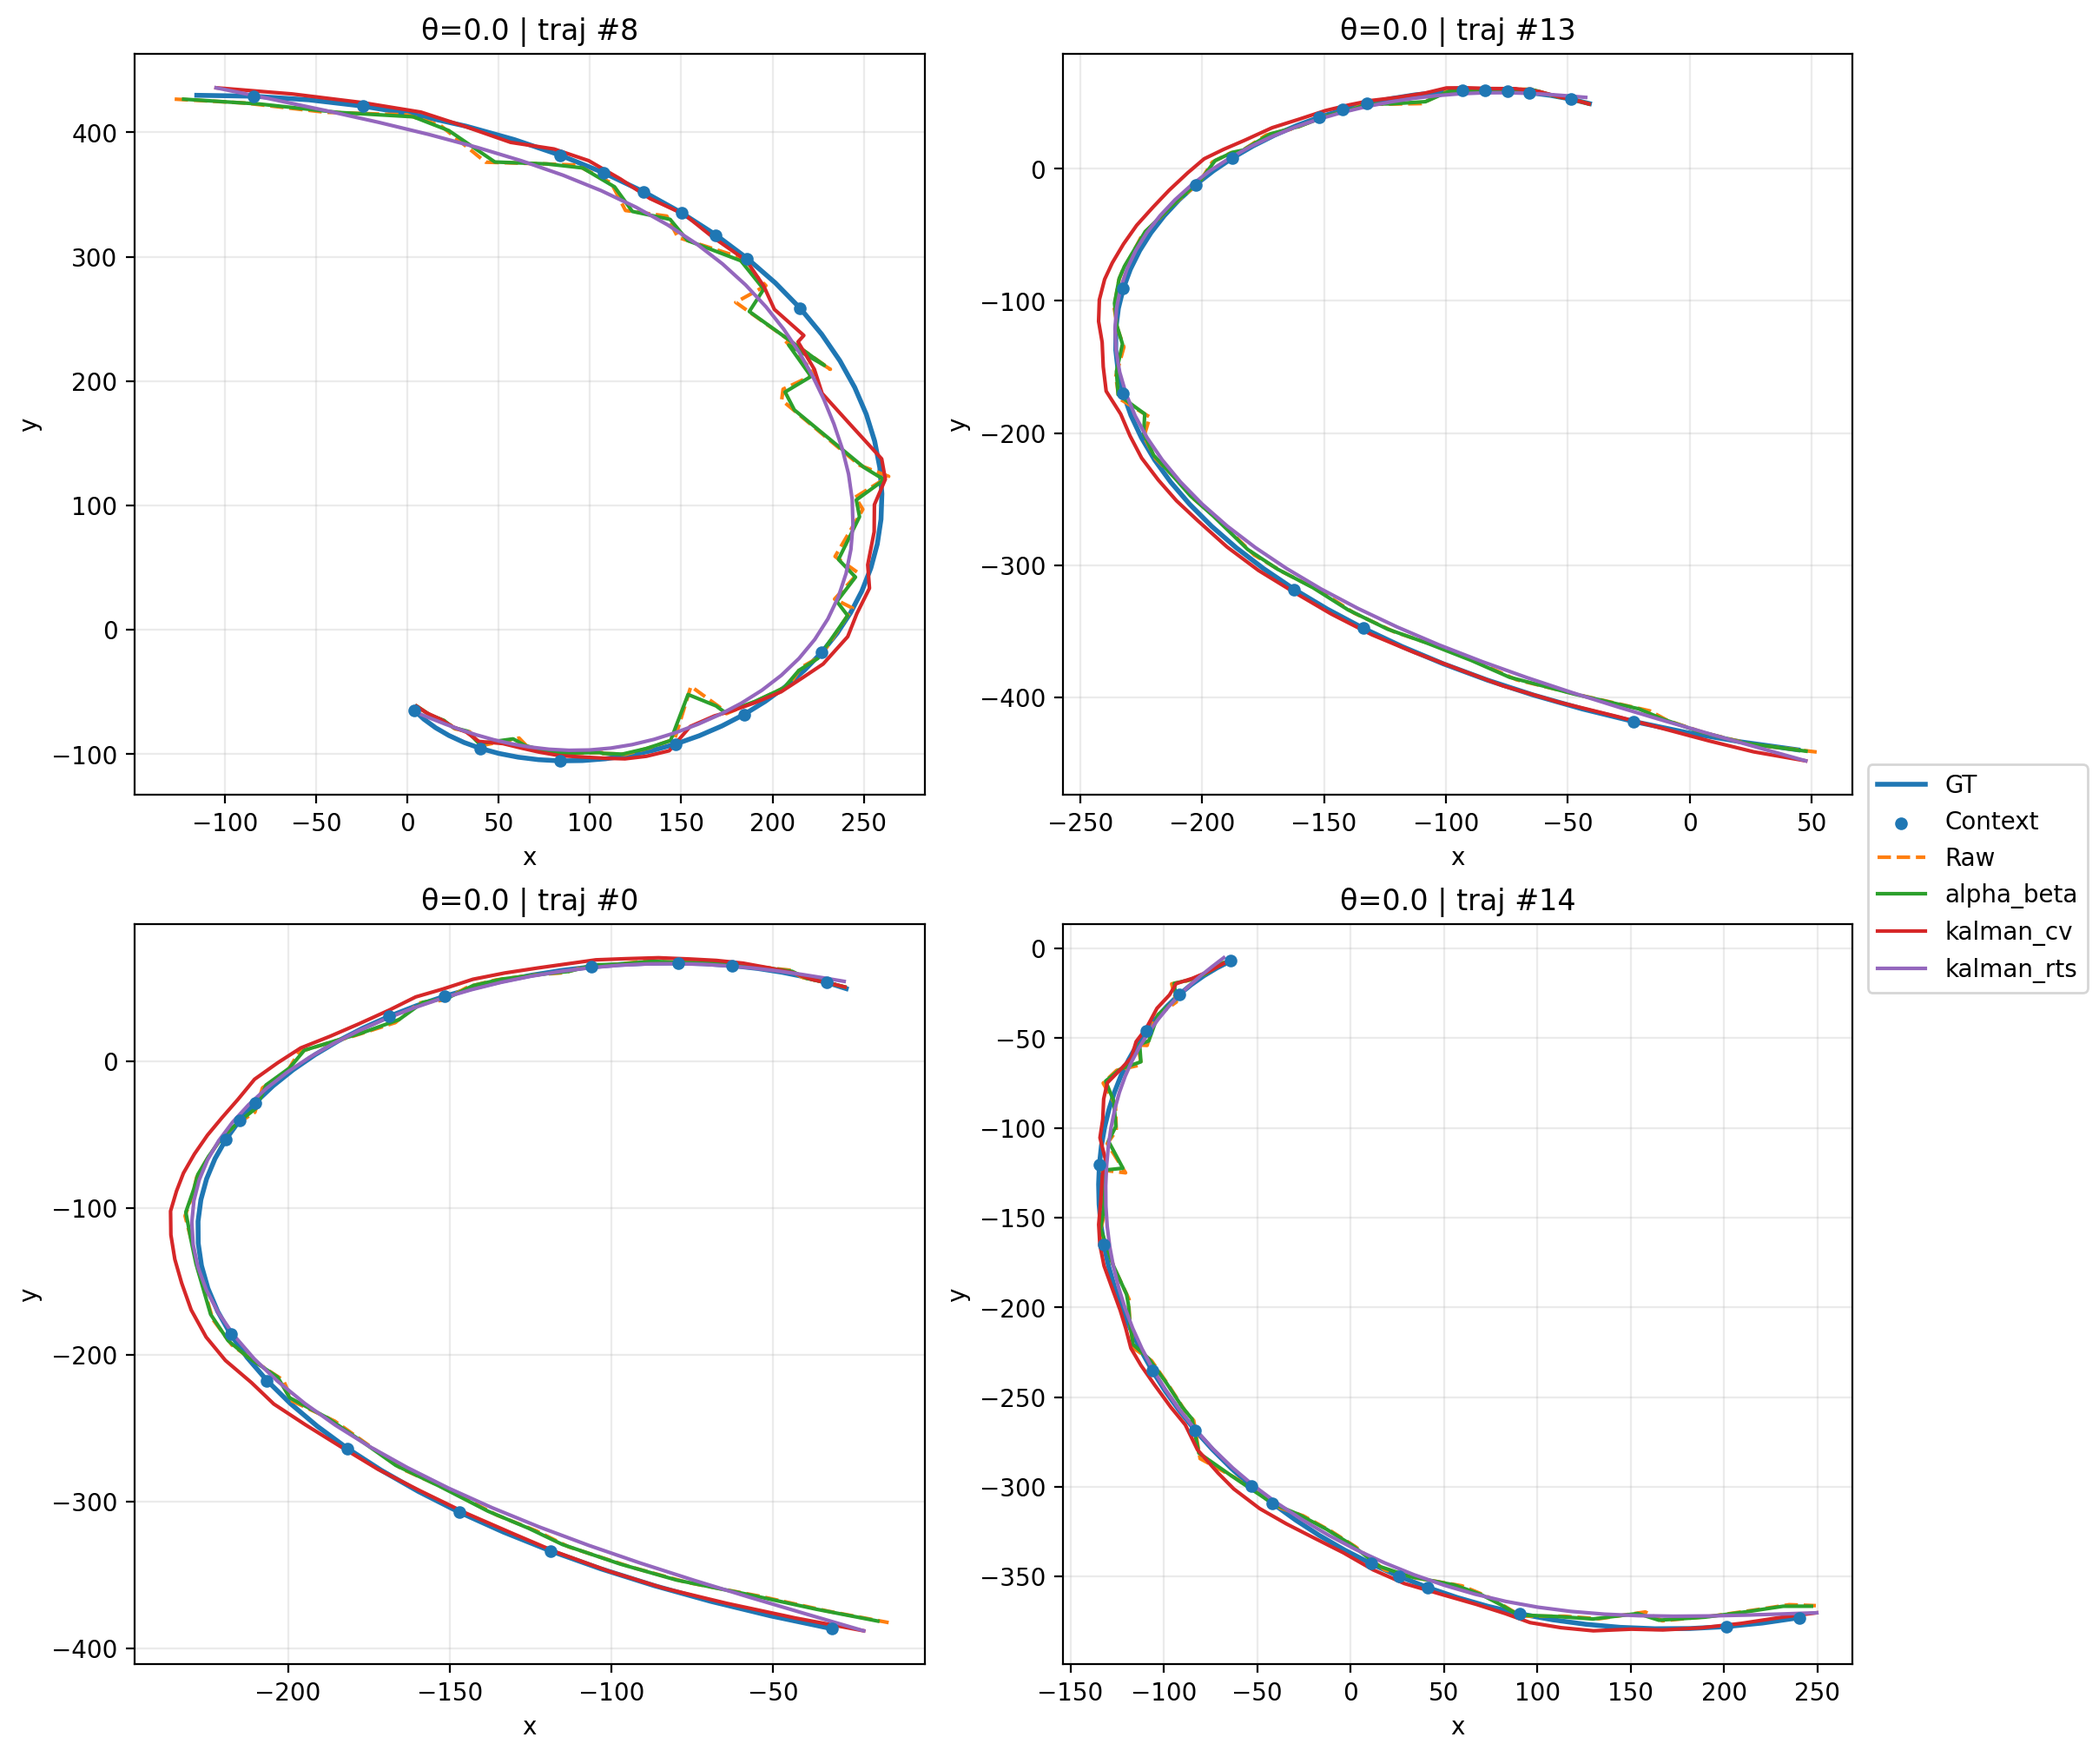
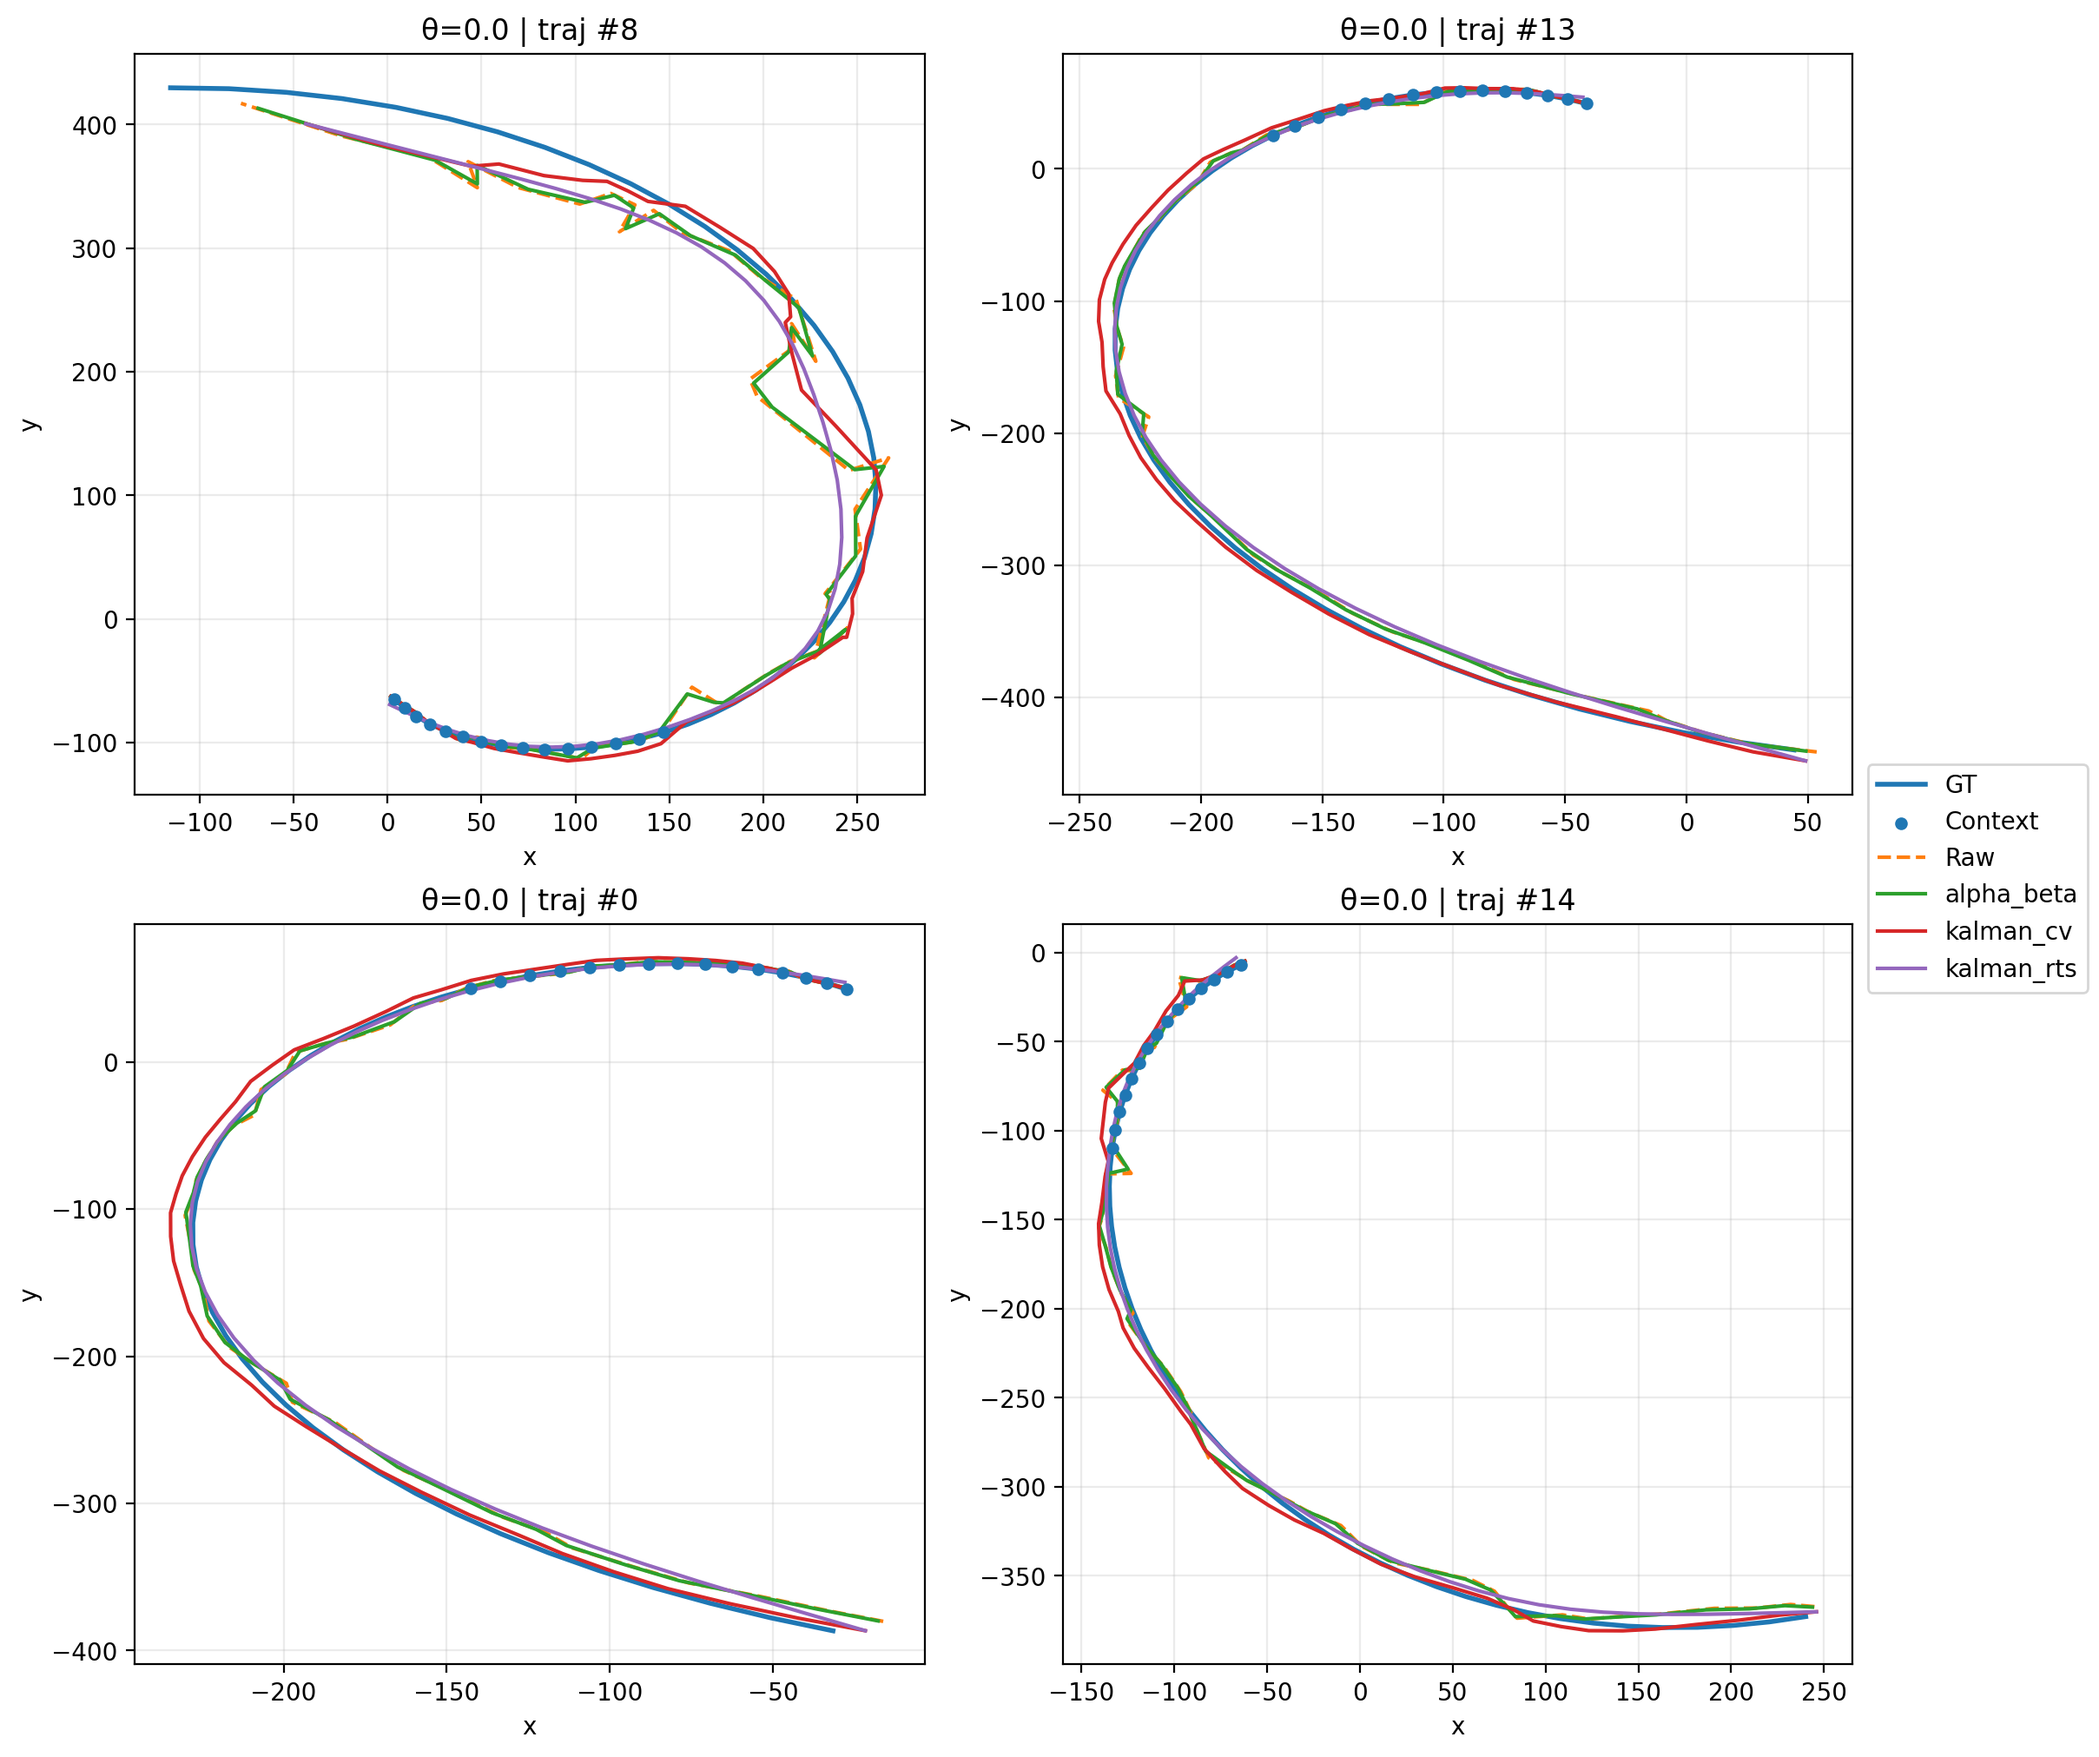
Update evaluation scripts and postprocess comparison report; modify context sampling method and improve performance metrics

diff --git a/underwater-localization-topologies/src/evaluation/eval_anp_postprocess_filters_ar.py b/underwater-localization-topologies/src/evaluation/eval_anp_postprocess_filters_ar.py
@@ -122,9 +122,9 @@ def denormalize_y(y_norm: torch.Tensor, y_mean: torch.Tensor, y_std: torch.Tenso
 
 
 def sample_context_indices(total_points: int, n_context: int, g: torch.Generator, device: torch.device) -> torch.Tensor:
-    """Subconjunto aleatorio determinista y ordenado."""
-    perm = torch.randperm(total_points, generator=g, device=device)
-    return perm[:n_context].sort().values
+    """Primeros n_context puntos (ordenados desde el inicio)."""
+    n_context = max(1, min(n_context, total_points))
+    return torch.arange(n_context, device=device, dtype=torch.long)
 
 
 def sample_context_indices_ordered(total_points: int, n_context: int) -> torch.Tensor:
